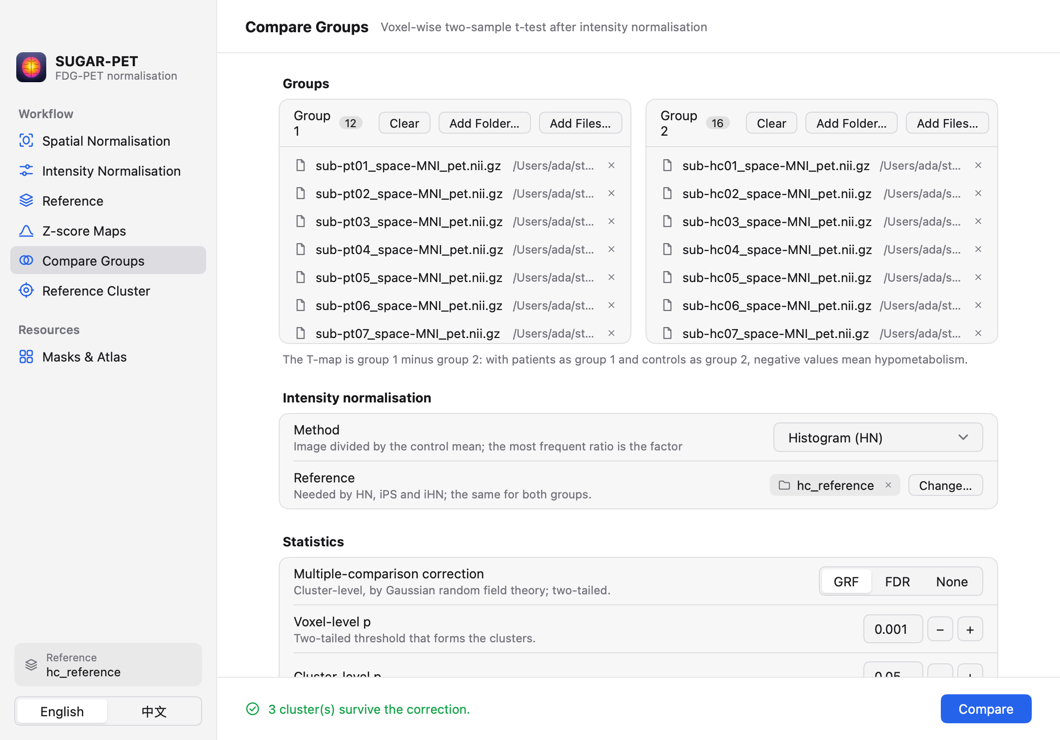
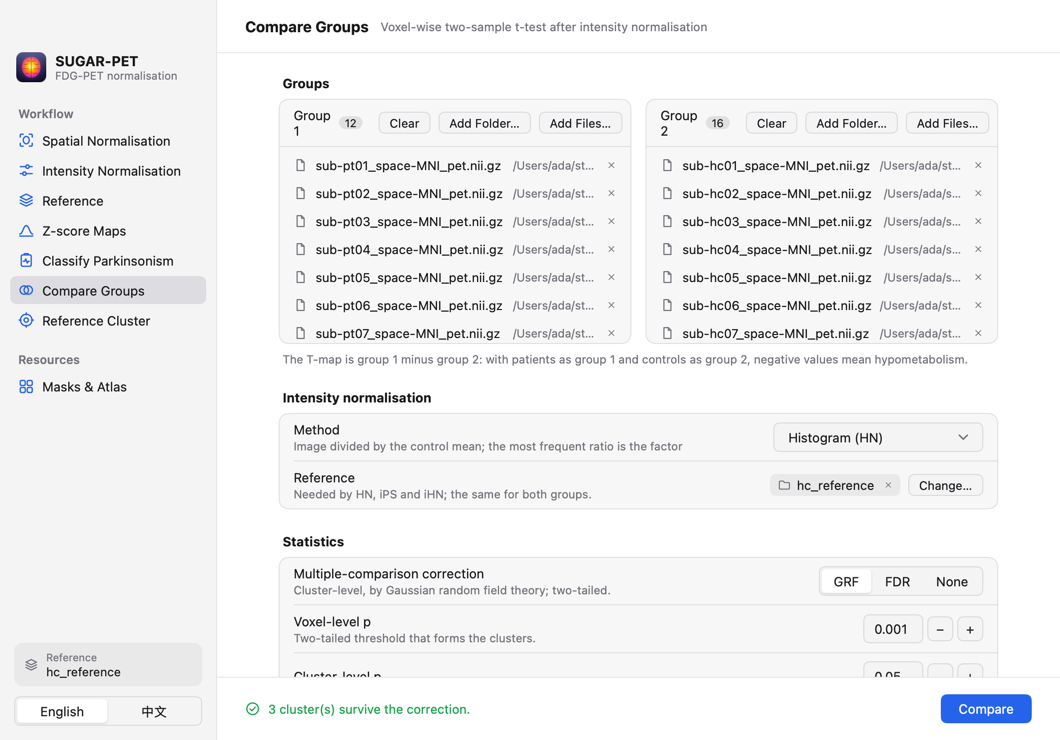
Redraw the app's screenshots and show the Classify Parkinsonism page
The screenshots of the Intensity Normalisation and Compare Groups pages
predate the Classify Parkinsonism page and lacked it in the sidebar. They
are drawn anew with `sugar-pet --snapshot`, in English and Chinese, and
the new page gets its own pair (the screen with the list of results),
shown in the READMEs where the classification is described.

Changed region(s): [[0.0, 0.3419, 0.1557, 0.5284]]

diff --git a/README_zh.md b/README_zh.md
@@ -298,6 +298,10 @@ sugar-pet classify sub-01_pet.nii.gz -r hc_reference/ -o reports/ --covariates p
 （例如 `a/pet.nii.gz` 和 `b/pet.nii.gz`），程序会在写入任何文件之前拒绝运行，
 以免一位患者的报告覆盖另一位的。
 
+在[桌面应用](#桌面应用)里，这就是“帕金森综合征分类”页面：列出每位患者的结论，并可直接打开报告。
+
+![SUGAR-PET 的帕金森综合征分类页面](app/screenshots/classify-zh.png)
+
 **它是辅助决策工具，不是诊断。** 诊断标准（MSA 2022、PSP 2017、DLB 2017）只把
 FDG-PET 列为支持性证据；下面的规则来自文献，没有用你的患者数据拟合或验证过。
 结果须结合临床表现、MRI 和多巴胺转运体显像来判断。

diff --git a/README.md b/README.md
@@ -342,6 +342,11 @@ images that would get the same name, such as `a/pet.nii.gz` and `b/pet.nii.gz`,
 are refused before anything is written, so that one patient's report cannot
 replace another's.
 
+In the [desktop app](#desktop-app) this is the **Classify Parkinsonism** page,
+which lists the conclusions and opens the reports:
+
+![The Classify Parkinsonism page of SUGAR-PET](app/screenshots/classify-en.png)
+
 **It is decision support, not a diagnosis.** The diagnostic criteria (MSA 2022,
 PSP 2017, DLB 2017) count FDG-PET as supportive only, and the rules below come
 from the literature: they were not fitted to or validated on your patients.
